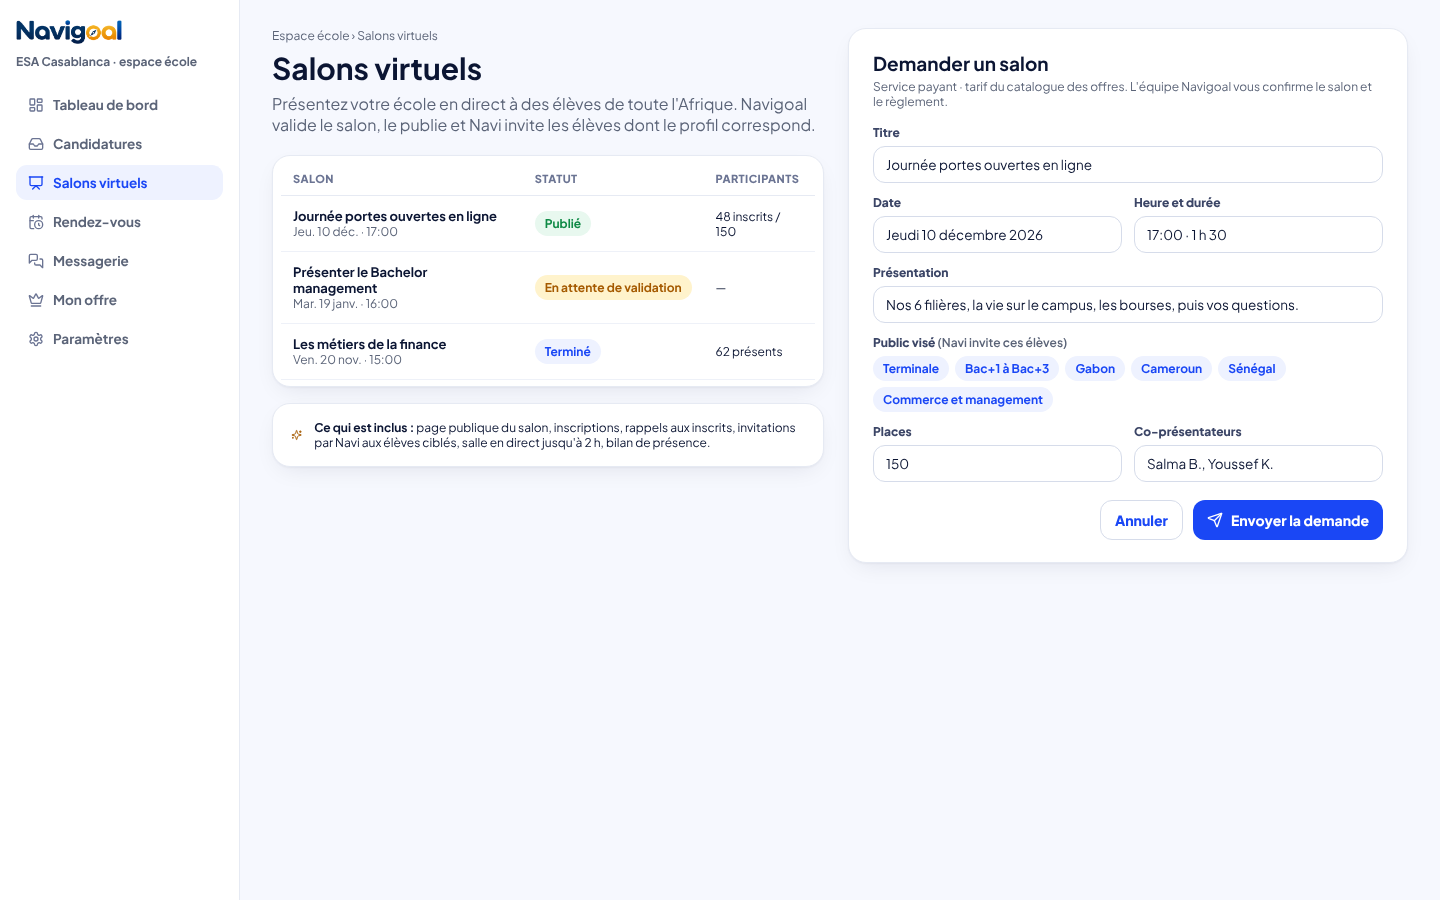
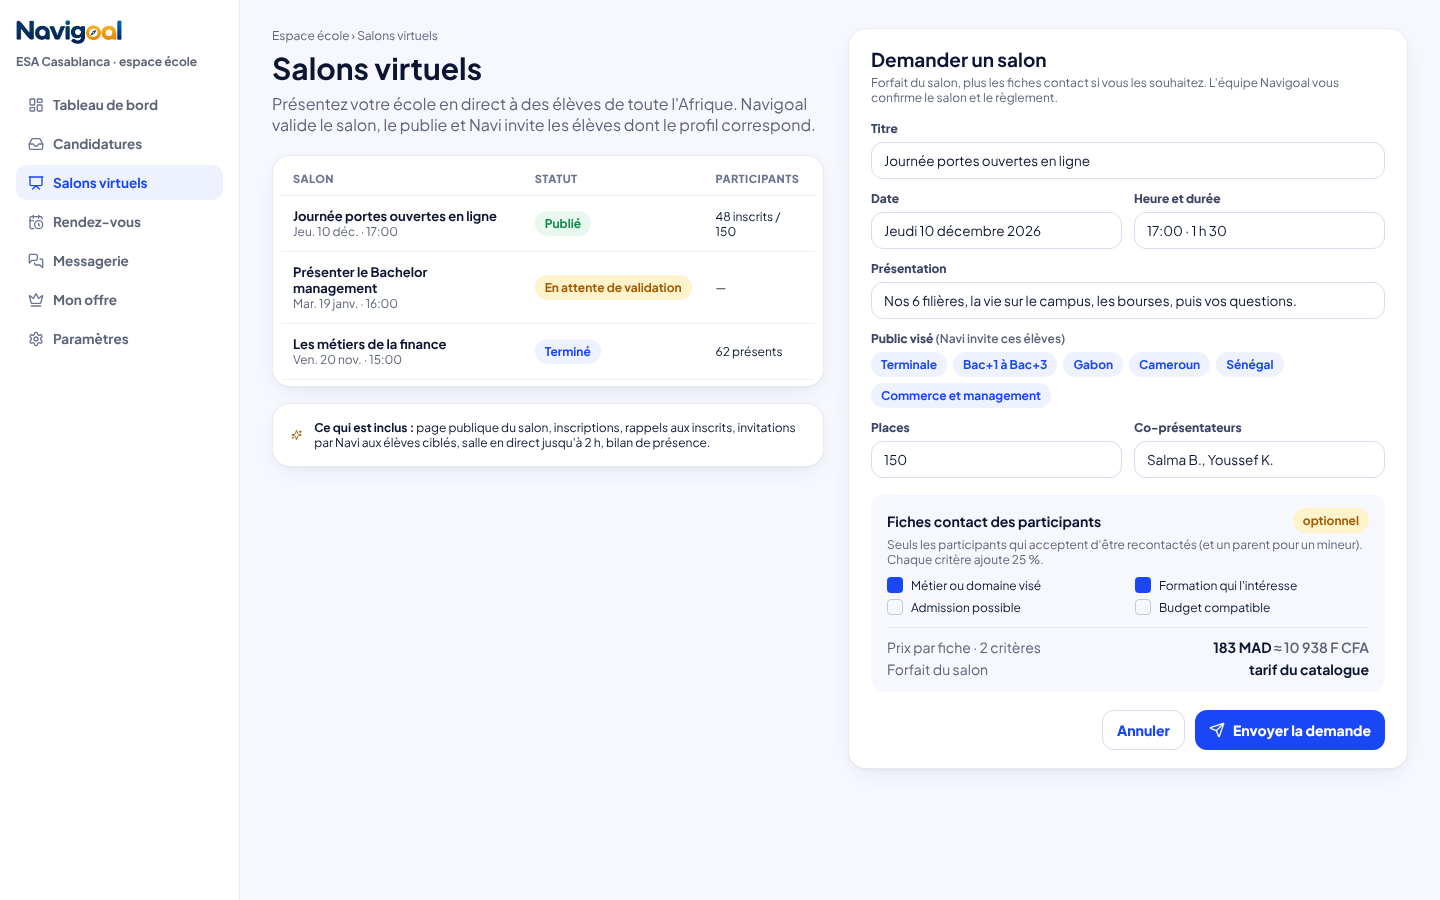
Maquettes des salons virtuels : forfait + fiches contact (7 000 F CFA, +25 % en cascade par critère), consentement de l'élève et du parent
Claude-Session: https://claude.ai/code/session_019oY2duc1QUnFAVUUvCP8v1

diff --git a/design/maquettes/salons.py b/design/maquettes/salons.py
@@ -41,14 +41,21 @@ def ecole_demande():
       <div class="card" style="margin-top:20px;padding:6px 8px"><table><tr><th>Salon</th><th>Statut</th><th>Participants</th></tr>{lignes}</table></div>
       <div class="card" style="margin-top:16px;padding:16px 18px;display:flex;gap:12px;align-items:center">{icon("sparkles", 20, "#a55a00")}<span class="small"><b>Ce qui est inclus :</b> page publique du salon, inscriptions, rappels aux inscrits, invitations par Navi aux élèves ciblés, salle en direct jusqu'à 2 h, bilan de présence.</span></div>
     </div>
-    <div class="card" style="padding:22px 24px">
-      <b style="font-size:19px">Demander un salon</b><p class="small mute" style="margin-top:4px">Service payant · tarif du catalogue des offres. L'équipe Navigoal vous confirme le salon et le règlement.</p>
+    <div class="card" style="padding:18px 22px">
+      <b style="font-size:19px">Demander un salon</b><p class="small mute" style="margin-top:4px">Forfait du salon, plus les fiches contact si vous les souhaitez. L'équipe Navigoal vous confirme le salon et le règlement.</p>
       <div style="display:grid;grid-template-columns:1fr 1fr;gap:12px;margin-top:16px">
         {champ("Titre", "Journée portes ouvertes en ligne", True)}
         {champ("Date", "Jeudi 10 décembre 2026")}{champ("Heure et durée", "17:00 · 1 h 30")}
         {champ("Présentation", "Nos 6 filières, la vie sur le campus, les bourses, puis vos questions.", True)}
         <div style="grid-column:span 2"><div class="label">Public visé <span class="mute" style="font-weight:600">(Navi invite ces élèves)</span></div><div style="display:flex;gap:6px;flex-wrap:wrap">{publics}</div></div>
         {champ("Places", "150")}{champ("Co-présentateurs", "Salma B., Youssef K.")}
+      </div>
+      <div style="margin-top:16px;padding:14px 16px;border-radius:14px;background:#f6f8fe">
+        <div style="display:flex;justify-content:space-between;align-items:center"><b style="font-size:14px">Fiches contact des participants</b><span class="chip y">optionnel</span></div>
+        <p class="small mute" style="margin-top:4px">Seuls les participants qui acceptent d'être recontactés (et un parent pour un mineur). Chaque critère ajoute 25 %.</p>
+        <div style="display:grid;grid-template-columns:1fr 1fr;gap:6px 14px;margin-top:10px">{"".join(f'<span class="small" style="display:flex;gap:8px;align-items:center"><span style="width:16px;height:16px;border-radius:4px;{"background:#1a47f5" if on else "border:1.5px solid #c3c9d8"}"></span>{t}</span>' for t, on in [("Métier ou domaine visé", True), ("Formation qui l'intéresse", True), ("Admission possible", False), ("Budget compatible", False)])}</div>
+        <div style="display:flex;justify-content:space-between;margin-top:12px;padding-top:10px;border-top:1px solid #e6eaf3;font-size:14px"><span class="mute">Prix par fiche · 2 critères</span><b>183 MAD <span class="mute" style="font-weight:600">≈ 10 938 F CFA</span></b></div>
+        <div style="display:flex;justify-content:space-between;margin-top:4px;font-size:14px"><span class="mute">Forfait du salon</span><b>tarif du catalogue</b></div>
       </div>
       <div style="display:flex;justify-content:flex-end;gap:10px;margin-top:18px"><span class="btn ghost">Annuler</span><span class="btn primary">{icon("send", 16, "#fff")}Envoyer la demande</span></div>
     </div>
@@ -57,7 +64,7 @@ def ecole_demande():
 
 # ---------------------------------------------------------------- 2. Admin : validation
 def admin():
-    lignes = "".join(f"""<tr><td><b>{e}</b><div class="small mute">{t}</div></td><td class="small">{d}</td><td class="small">{p}</td><td><span class="chip {c}">{s}</span></td>
+    lignes = "".join(f"""<tr><td><b>{e}</b><div class="small mute">{t}</div></td><td class="small">{d}</td><td class="small">{p}</td><td class="small">{"183 MAD · 2 critères" if "Bachelor" in t else "117 MAD" if e == "EMSI" else "147 MAD · 1 critère"}</td><td><span class="chip {c}">{s}</span></td>
       <td style="text-align:right">{('<span class="btn primary" style="padding:8px 12px;font-size:13px">' + icon("check", 15, "#fff") + 'Valider</span> <span class="btn ghost" style="padding:8px 12px;font-size:13px;color:#d42a50">Refuser</span>') if s == "À valider" else ''}</td></tr>"""
         for e, t, d, p, s, c in [("ESA Casablanca", "Présenter le Bachelor management", "Mar. 19 janv. · 16:00 · 1 h", "Terminale · Gabon, Cameroun", "À valider", "y"),
                                   ("EMSI", "Devenir ingénieur au Maroc", "Sam. 12 déc. · 15:00 · 1 h 30", "Terminale S · toute l'Afrique", "À valider", "y"),
@@ -66,10 +73,11 @@ def admin():
   {P.menu(P.ADMIN, "Établissements", "Back-office Navigoal")}
   <div style="position:absolute;left:272px;right:32px;top:28px">
     <h1 style="font-size:30px">Salons virtuels</h1><p class="mute" style="margin-top:6px">Une demande validée devient un abonnement « Salon virtuel » (montant et référence du règlement), la page est publiée et Navi peut l'annoncer.</p>
-    <div class="card" style="margin-top:20px;padding:6px 8px"><table><tr><th>École et salon</th><th>Date</th><th>Public visé</th><th>Statut</th><th></th></tr>{lignes}</table></div>
+    <div class="card" style="margin-top:20px;padding:6px 8px"><table><tr><th>École et salon</th><th>Date</th><th>Public visé</th><th>Fiches</th><th>Statut</th><th></th></tr>{lignes}</table></div>
     <div class="card" style="position:absolute;right:0;top:300px;width:470px;padding:22px 24px;border:2px solid #1a47f5">
       <b style="font-size:17px">Valider « Présenter le Bachelor management »</b>
-      <div style="display:grid;grid-template-columns:1fr 1fr;gap:12px;margin-top:14px">{champ("Montant (MAD)", "tarif du catalogue")}{champ("Règlement", "Virement · VIR-2026-1204")}</div>
+      <div style="display:grid;grid-template-columns:1fr 1fr;gap:12px;margin-top:14px">{champ("Forfait du salon (MAD)", "tarif du catalogue")}{champ("Règlement", "Virement · VIR-2026-1204")}</div>
+      <p class="small mute" style="margin-top:10px">Fiches contact : 183 MAD la fiche (2 critères), facturées après le salon selon le nombre acheté.</p>
       <label class="small" style="display:flex;gap:8px;margin-top:14px;align-items:center"><span style="width:18px;height:18px;border-radius:5px;background:#1a47f5"></span>Navi peut annoncer ce salon aux élèves ciblés</label>
       <div style="display:flex;justify-content:flex-end;gap:10px;margin-top:16px"><span class="btn ghost">Annuler</span><span class="btn primary">Valider et publier</span></div></div>
   </div></div>"""
@@ -87,6 +95,7 @@ def public():
       <div style="display:flex;gap:22px;margin-top:20px;font-size:14px">{"".join(f'<span style="display:flex;gap:8px;align-items:center">{icon(i, 17, "#ffc21f")}{t}</span>' for i, t in [("calendar", "Jeudi 10 décembre 2026"), ("clock", "17:00 – 18:30 (votre heure)"), ("users", "48 inscrits · 102 places")])}</div></div>
     <div style="background:#fff;color:#0b1533;border-radius:20px;padding:22px">
       <b style="font-size:18px">Réserve ta place</b><p class="small mute" style="margin-top:4px">Avec ton compte Navigoal (gratuit). Tu reçois le lien, un rappel le matin et 15 min avant.</p>
+      <label class="small" style="display:flex;gap:9px;margin-top:14px;align-items:flex-start;line-height:1.45"><span style="width:18px;height:18px;flex-shrink:0;border-radius:5px;border:1.5px solid #c3c9d8;margin-top:1px"></span><span>J'accepte que <b>ESA Casablanca</b> reçoive mes coordonnées pour me recontacter <span class="mute">(facultatif ; l'accord d'un parent est demandé si tu as moins de 18 ans)</span></span></label>
       <span class="btn sun" style="width:100%;margin-top:14px;padding:13px">{icon("ticket", 17, "#0b1533")}Je m'inscris</span>
       <span class="btn ghost" style="width:100%;margin-top:8px">{icon("calendar-plus", 16, "#1a47f5")}Ajouter à mon agenda</span>
       <p class="small mute" style="margin-top:12px">Micro et caméra coupés pour les participants · questions par écrit · aucun enregistrement.</p></div>
@@ -109,6 +118,7 @@ def navi():
       <span class="chip b">{icon("radio", 12, "#1a47f5")}Salon virtuel · gratuit</span>
       <div style="display:flex;gap:10px;align-items:center;margin-top:10px"><img src="{LOGO['esa']}" style="width:40px;height:40px;border-radius:10px;border:1px solid #e6eaf3;padding:3px"><b style="font-size:15px">Journée portes ouvertes en ligne</b></div>
       <p class="small mute" style="margin-top:6px">ESA Casablanca · jeu. 10 déc. · 17:00 · 1 h 30</p>
+      <label class="small" style="display:flex;gap:8px;margin-top:10px;align-items:flex-start"><span style="width:16px;height:16px;flex-shrink:0;border-radius:4px;border:1.5px solid #c3c9d8;margin-top:1px"></span>L'école peut me recontacter (facultatif)</label>
       <div style="display:grid;grid-template-columns:1fr 1fr;gap:8px;margin-top:12px"><span class="btn primary" style="font-size:13px">{icon("check", 15, "#fff")}Confirmer</span><span class="btn ghost" style="font-size:13px">Voir le salon</span></div>
       <p class="small mute" style="margin-top:8px">Tu seras inscrit·e seulement si tu confirmes.</p></div>
     <div style="max-width:300px;background:#fff;border:1px solid #e6eaf3;border-radius:16px;padding:10px 13px;font-size:14px">Tu veux que je t'en trouve d'autres, en ingénierie ou en santé ?</div>
@@ -145,14 +155,32 @@ def bilan():
     <p class="small mute">Salons virtuels › Les métiers de la finance</p><h1 style="font-size:30px;margin-top:6px">Bilan du salon du 20 novembre</h1>
     <div style="display:grid;grid-template-columns:repeat(4,1fr);gap:16px;margin-top:18px">{stats}</div>
     <div class="card" style="margin-top:18px;padding:6px 8px"><table><tr><th>Participant</th><th>Profil</th><th>Temps de présence</th><th>Suite</th></tr>{lignes}</table></div>
+    <div class="card" style="margin-top:16px;padding:16px 18px;display:flex;align-items:center;gap:18px;border:2px solid #ffc21f">{icon("contact", 26, "#a55a00")}
+      <span style="flex:1"><b>Fiches contact</b><span class="small mute" style="display:block">34 participants ont accepté d'être recontactés · 21 correspondent à vos 2 critères (métier visé, formation qui l'intéresse)</span></span>
+      <span style="text-align:right"><b style="font-size:18px">21 × 183 MAD = 3 843 MAD</b><span class="small mute" style="display:block">≈ 229 700 F CFA</span></span><span class="btn sun">Acheter les 21 fiches</span></div>
     <div style="display:flex;gap:10px;margin-top:16px"><span class="btn primary">{icon("send", 16, "#fff")}Écrire aux participants</span><span class="btn ghost">{icon("send", 16, "#1a47f5")}Écrire aux absents (replanifier)</span><span class="btn ghost">{icon("download", 16, "#1a47f5")}Exporter (CSV)</span></div>
-    <p class="small mute" style="margin-top:10px">Les messages passent par la messagerie Navigoal ; les coordonnées des élèves ne sont pas communiquées.</p>
+    <p class="small mute" style="margin-top:10px">Les messages passent par la messagerie Navigoal. Les coordonnées ne sont transmises que dans les fiches achetées, et seulement pour les élèves qui l'ont accepté.</p>
+  </div></div>"""
+
+
+def parent():
+    return f"""<div class="frame" style="width:390px;height:844px;background:#f6f8fe"><div class="titre-cadre">7 · Parent : accord pour un élève mineur</div>
+  <div style="height:60px;background:#fff;border-bottom:1px solid #e6eaf3;display:flex;align-items:center;padding:0 16px"><img src="{WORDMARK}" style="height:22px"></div>
+  <div style="padding:16px">
+    <div class="card" style="padding:16px">
+      <span class="chip y">Accord demandé</span>
+      <b style="display:block;font-size:17px;margin-top:10px">Amina souhaite que l'ESA Casablanca puisse la recontacter</b>
+      <p class="small mute" style="margin-top:8px;line-height:1.5">Elle s'est inscrite au salon « Journée portes ouvertes en ligne » du 10 décembre. Si vous acceptez, l'école recevra : prénom et nom, pays, niveau et série, domaines qui l'intéressent, e-mail et téléphone.</p>
+      <p class="small mute" style="margin-top:8px">Vous pouvez retirer cet accord à tout moment dans « Mes enfants ».</p>
+      <div style="display:grid;grid-template-columns:1fr 1fr;gap:8px;margin-top:14px"><span class="btn primary" style="font-size:13px">J'accepte</span><span class="btn ghost" style="font-size:13px">Je refuse</span></div>
+    </div>
+    <p class="small mute" style="margin-top:12px">Sans votre accord, Amina participe au salon normalement ; ses coordonnées ne sont pas transmises.</p>
   </div></div>"""
 
 
 def main():
     out = os.path.join(P.OUT, "salons.html")
-    corps = "".join([ecole_demande(), admin(), public(), navi(), direct(), bilan()])
+    corps = "".join([ecole_demande(), admin(), public(), navi(), direct(), bilan(), parent()])
     open(out, "w", encoding="utf-8").write(f'<!doctype html><html lang="fr"><head><meta charset="utf-8"><title>Salons virtuels</title><style>{CSS}</style></head><body>{corps}</body></html>')
     print(out)
 
